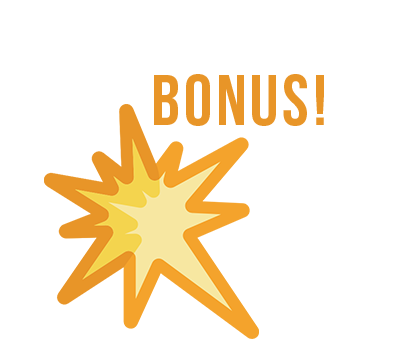
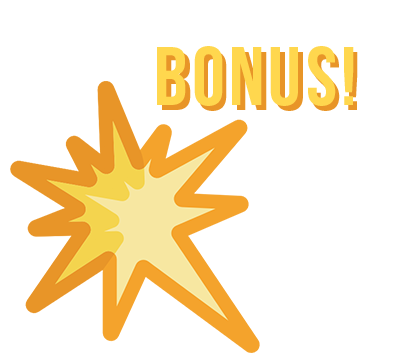
feat(after hit effect): added new image for flower

Changed region(s): [[0.0, 0.1222, 0.9, 0.9778]]

diff --git a/client/components/boards/posenet_utils.js b/client/components/boards/posenet_utils.js
@@ -83,8 +83,8 @@ export const hitAMole = (
             updateScore(1)
           }
           if (Array.from(holeRef.classList).includes('flower')) {
-            holeRef.classList.replace('flower', 'stars')
-            setTimeout(() => holeRef.classList.toggle('stars'), 500)
+            holeRef.classList.replace('flower', 'minus-points')
+            setTimeout(() => holeRef.classList.toggle('minus-points'), 500)
             soundElem.current.src = generateRandomSound()
             soundElem.current.load()
             soundElem.current.play()

diff --git a/public/style.css b/public/style.css
@@ -123,6 +123,10 @@ h4 {
   background-image: url('images/bonus.png');
 }
 
+.minus-points {
+  background-image: url('images/minus-15-points.png');
+}
+
 .face-space {
   width: 110px;
   height: 100px;
